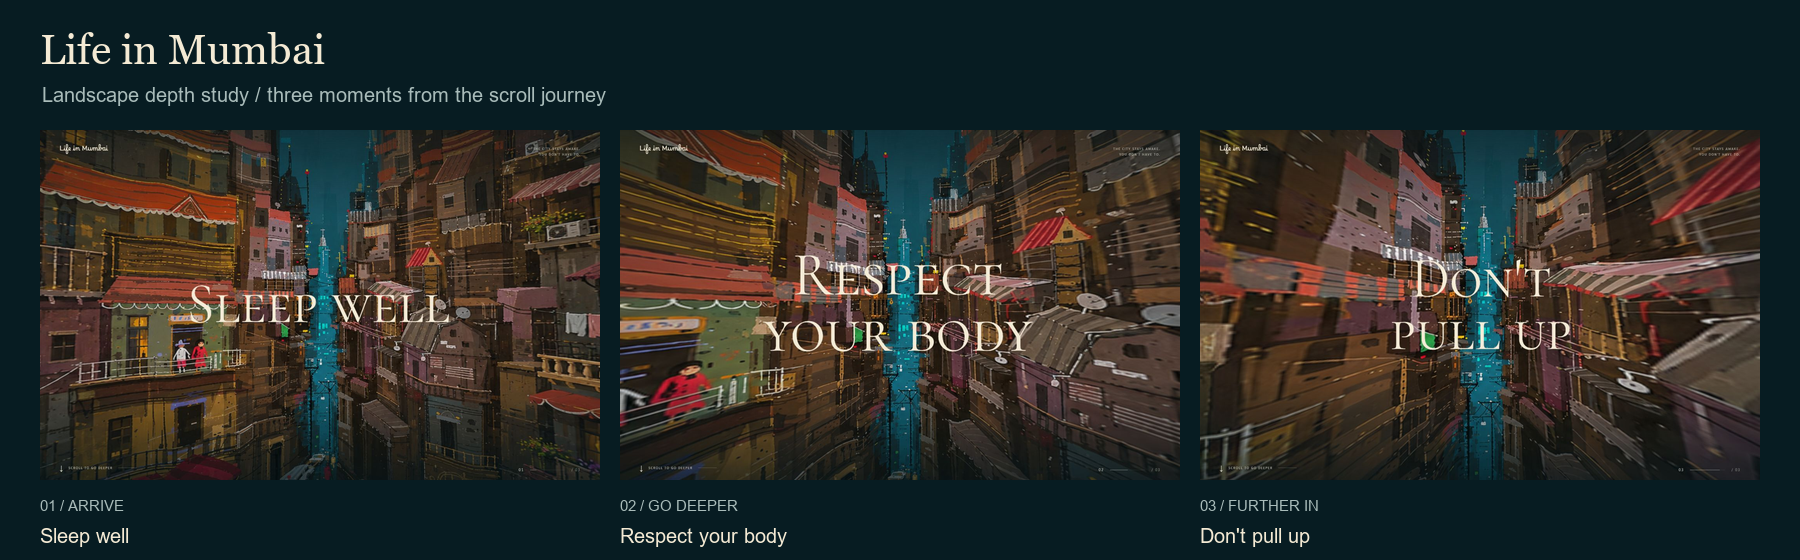
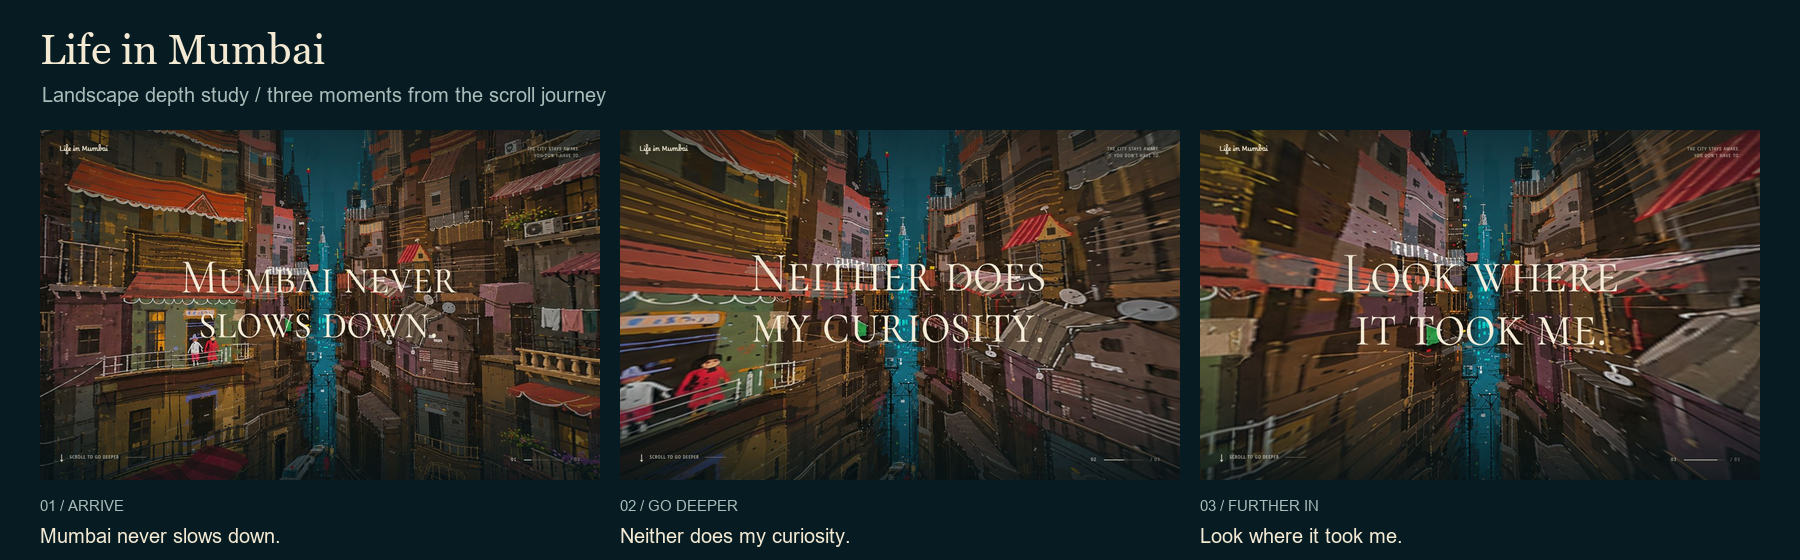
Update Mumbai journey messages and portfolio presentation

diff --git a/dist/mumbai-alley.html b/dist/mumbai-alley.html
@@ -26,10 +26,10 @@
   <img class="fallback" src="/assets/mumbai/teal-urban-canyon.png" width="1672" height="941" alt="A wide painted Mumbai alley, warm windows and balconies opening onto a deep teal night">
   <canvas id="alley-canvas" aria-hidden="true"></canvas><div class="veil" aria-hidden="true"></div>
   <div class="annotation">Life in Mumbai</div><div class="coordinates">The city stays awake.<br>You don't have to.</div>
-  <div class="fallback-copy" aria-hidden="true"><h2 id="fallback-phrase">Sleep well</h2></div>
+  <div class="fallback-copy" aria-hidden="true"><h2 id="fallback-phrase">Mumbai never slows down.</h2></div>
   <div class="journey-hint">SCROLL TO GO DEEPER</div>
   <div class="chapter" aria-hidden="true"><span id="phase-index">01</span><div class="chapter-track"><div class="chapter-fill"></div></div><span class="chapter-total">/ 03</span></div>
-  <div class="accessible-copy"><h1>Life in Mumbai</h1><p>Sleep well. Respect your body. Don't pull up.</p></div>
+  <div class="accessible-copy"><h1>Life in Mumbai</h1><p>Mumbai never slows down. Neither does my curiosity. Look where it took me.</p></div>
 </main>
 <script src="https://cdn.jsdelivr.net/npm/three@0.128.0/build/three.min.js"></script>
 <script>
@@ -38,11 +38,11 @@
   const EMBED=new URLSearchParams(location.search).has('embed'),REDUCED=matchMedia('(prefers-reduced-motion: reduce)').matches;
   // Named stills make the requested visual storyboard reproducible without
   // changing the embedded journey or depending on screenshot timing.
-  const stillProgress=EMBED?undefined:({sleep:.19,respect:.51,deeper:.85})[new URLSearchParams(location.search).get('still')];
+  const stillProgress=EMBED?undefined:({city:.19,curiosity:.51,journey:.85,sleep:.19,respect:.51,deeper:.85})[new URLSearchParams(location.search).get('still')];
   document.body.classList.toggle('embedded',EMBED||typeof stillProgress==='number');
   const stage=document.getElementById('alley-stage'),canvas=document.getElementById('alley-canvas');
   const fallbackPhrase=document.getElementById('fallback-phrase'),phaseIndex=document.getElementById('phase-index'),fill=document.querySelector('.chapter-fill');
-  const words=['Sleep well','Respect your body',"Don't pull up"],target={progress:0,x:0,y:0},motion={progress:0,x:0,y:0};
+  const words=['Mumbai never slows down.','Neither does my curiosity.','Look where it took me.'],target={progress:0,x:0,y:0},motion={progress:0,x:0,y:0};
   const ART_ASPECT=1672/941,FOV=48,TRAVEL=38,layers=[],phrases=[];
   let active=!EMBED,renderer,scene,camera,lastTime=0,lastRendered=0,phase=-1,dirty=true;
   const send=data=>{if(EMBED)parent.postMessage({mumbaiAlley:true,...data},location.origin);};
@@ -61,9 +61,9 @@
     return 9;
   }
   const beats=[
-    {text:'Sleep well',lines:['Sleep well'],depth:20,begin:.035,peak:.19,end:.32,width:.54},
-    {text:'Respect your body',lines:['Respect','your body'],depth:30,begin:.36,peak:.51,end:.66,width:.58},
-    {text:"Don't pull up",lines:["Don't",'pull up'],depth:49,begin:.70,peak:.85,end:1,width:.54}
+    {text:words[0],lines:['Mumbai never','slows down.'],depth:20,begin:.035,peak:.19,end:.32,width:.54},
+    {text:words[1],lines:['Neither does','my curiosity.'],depth:30,begin:.36,peak:.51,end:.66,width:.58},
+    {text:words[2],lines:['Look where','it took me.'],depth:49,begin:.70,peak:.85,end:1,width:.54}
   ];
   function setProgress(value){
     target.progress=clamp(value);dirty=true;
@@ -102,7 +102,7 @@
   }
   function fallback(){stage.classList.add('fallback-mode');stage.dataset.fallback='true';send({ready:true});}
   async function init(){
-    if(REDUCED){stage.classList.add('reduced');fallbackPhrase.innerHTML='Sleep well<br>Respect your body<br>Don’t pull up';stage.dataset.ready='reduced';send({ready:true});return;}
+    if(REDUCED){stage.classList.add('reduced');fallbackPhrase.innerHTML=words.join('<br><br>');stage.dataset.ready='reduced';send({ready:true});return;}
     try{
       if(typeof THREE==='undefined')throw new Error('Scene library unavailable');
       scene=new THREE.Scene();camera=new THREE.PerspectiveCamera(FOV,innerWidth/innerHeight,.1,300);

diff --git a/src/mumbai-alley.template.html b/src/mumbai-alley.template.html
@@ -26,10 +26,10 @@
   <img class="fallback" src="/assets/mumbai/teal-urban-canyon.png" width="1672" height="941" alt="A wide painted Mumbai alley, warm windows and balconies opening onto a deep teal night">
   <canvas id="alley-canvas" aria-hidden="true"></canvas><div class="veil" aria-hidden="true"></div>
   <div class="annotation">Life in Mumbai</div><div class="coordinates">The city stays awake.<br>You don't have to.</div>
-  <div class="fallback-copy" aria-hidden="true"><h2 id="fallback-phrase">Sleep well</h2></div>
+  <div class="fallback-copy" aria-hidden="true"><h2 id="fallback-phrase">Mumbai never slows down.</h2></div>
   <div class="journey-hint">SCROLL TO GO DEEPER</div>
   <div class="chapter" aria-hidden="true"><span id="phase-index">01</span><div class="chapter-track"><div class="chapter-fill"></div></div><span class="chapter-total">/ 03</span></div>
-  <div class="accessible-copy"><h1>Life in Mumbai</h1><p>Sleep well. Respect your body. Don't pull up.</p></div>
+  <div class="accessible-copy"><h1>Life in Mumbai</h1><p>Mumbai never slows down. Neither does my curiosity. Look where it took me.</p></div>
 </main>
 <script src="https://cdn.jsdelivr.net/npm/three@0.128.0/build/three.min.js"></script>
 <script>
@@ -38,11 +38,11 @@
   const EMBED=new URLSearchParams(location.search).has('embed'),REDUCED=matchMedia('(prefers-reduced-motion: reduce)').matches;
   // Named stills make the requested visual storyboard reproducible without
   // changing the embedded journey or depending on screenshot timing.
-  const stillProgress=EMBED?undefined:({sleep:.19,respect:.51,deeper:.85})[new URLSearchParams(location.search).get('still')];
+  const stillProgress=EMBED?undefined:({city:.19,curiosity:.51,journey:.85,sleep:.19,respect:.51,deeper:.85})[new URLSearchParams(location.search).get('still')];
   document.body.classList.toggle('embedded',EMBED||typeof stillProgress==='number');
   const stage=document.getElementById('alley-stage'),canvas=document.getElementById('alley-canvas');
   const fallbackPhrase=document.getElementById('fallback-phrase'),phaseIndex=document.getElementById('phase-index'),fill=document.querySelector('.chapter-fill');
-  const words=['Sleep well','Respect your body',"Don't pull up"],target={progress:0,x:0,y:0},motion={progress:0,x:0,y:0};
+  const words=['Mumbai never slows down.','Neither does my curiosity.','Look where it took me.'],target={progress:0,x:0,y:0},motion={progress:0,x:0,y:0};
   const ART_ASPECT=1672/941,FOV=48,TRAVEL=38,layers=[],phrases=[];
   let active=!EMBED,renderer,scene,camera,lastTime=0,lastRendered=0,phase=-1,dirty=true;
   const send=data=>{if(EMBED)parent.postMessage({mumbaiAlley:true,...data},location.origin);};
@@ -61,9 +61,9 @@
     return 9;
   }
   const beats=[
-    {text:'Sleep well',lines:['Sleep well'],depth:20,begin:.035,peak:.19,end:.32,width:.54},
-    {text:'Respect your body',lines:['Respect','your body'],depth:30,begin:.36,peak:.51,end:.66,width:.58},
-    {text:"Don't pull up",lines:["Don't",'pull up'],depth:49,begin:.70,peak:.85,end:1,width:.54}
+    {text:words[0],lines:['Mumbai never','slows down.'],depth:20,begin:.035,peak:.19,end:.32,width:.54},
+    {text:words[1],lines:['Neither does','my curiosity.'],depth:30,begin:.36,peak:.51,end:.66,width:.58},
+    {text:words[2],lines:['Look where','it took me.'],depth:49,begin:.70,peak:.85,end:1,width:.54}
   ];
   function setProgress(value){
     target.progress=clamp(value);dirty=true;
@@ -102,7 +102,7 @@
   }
   function fallback(){stage.classList.add('fallback-mode');stage.dataset.fallback='true';send({ready:true});}
   async function init(){
-    if(REDUCED){stage.classList.add('reduced');fallbackPhrase.innerHTML='Sleep well<br>Respect your body<br>Don’t pull up';stage.dataset.ready='reduced';send({ready:true});return;}
+    if(REDUCED){stage.classList.add('reduced');fallbackPhrase.innerHTML=words.join('<br><br>');stage.dataset.ready='reduced';send({ready:true});return;}
     try{
       if(typeof THREE==='undefined')throw new Error('Scene library unavailable');
       scene=new THREE.Scene();camera=new THREE.PerspectiveCamera(FOV,innerWidth/innerHeight,.1,300);

diff --git a/review/render_storyboard.py b/review/render_storyboard.py
@@ -10,9 +10,9 @@ small = ImageFont.truetype('C:/Windows/Fonts/arial.ttf', 15)
 draw.text((40, 25), 'Life in Mumbai', font=title, fill='#f4ead4')
 draw.text((42, 83), 'Landscape depth study / three moments from the scroll journey', font=body, fill='#a9bcba')
 frames = [
-    ('mumbai-sleep-well.jpg', '01 / ARRIVE', 'Sleep well'),
-    ('mumbai-respect-your-body.jpg', '02 / GO DEEPER', 'Respect your body'),
-    ('mumbai-dont-pull-up.jpg', '03 / FURTHER IN', "Don't pull up"),
+    ('mumbai-city.jpg', '01 / ARRIVE', 'Mumbai never slows down.'),
+    ('mumbai-curiosity.jpg', '02 / GO DEEPER', 'Neither does my curiosity.'),
+    ('mumbai-journey.jpg', '03 / FURTHER IN', 'Look where it took me.'),
 ]
 for i, (name, label, phrase) in enumerate(frames):
     x = 40 + i * 580

diff --git a/README.md b/README.md
@@ -67,7 +67,7 @@ The original lower-section runtime is included as its published JavaScript bundl
 
 The Mumbai section uses the supplied landscape artwork, `Teal-Hazed Urban Canyon at Night.png`. Its original 1672×941 pixels are copied byte-for-byte into `src/media/teal-urban-canyon.png` and `dist/assets/mumbai/teal-urban-canyon.png`. The earlier portrait artwork is retained in the source folder.
 
-`src/mumbai-alley.template.html` maps six smoothly joined depth bands onto a continuous perspective surface. Inverse projection preserves the exact artwork at entry, with no repeated images or cutout seams. The foreground passes the camera faster than the distant teal lane during a 680-viewport-height scroll journey. “Sleep well,” “Respect your body,” and “Don't pull up” occupy three separate depths, fade in and out, and can be occluded by closer buildings. The scene also supports restrained pointer parallax, touch and keyboard scrolling. `src/build_alley.py` integrates it into the full page on `npm run build`.
+`src/mumbai-alley.template.html` maps six smoothly joined depth bands onto a continuous perspective surface. Inverse projection preserves the exact artwork at entry, with no repeated images or cutout seams. The foreground passes the camera faster than the distant teal lane during a 680-viewport-height scroll journey. “Mumbai never slows down.”, “Neither does my curiosity.”, and “Look where it took me.” occupy three separate depths, fade in and out, and can be occluded by closer buildings. The scene also supports restrained pointer parallax, touch and keyboard scrolling. `src/build_alley.py` integrates it into the full page on `npm run build`.
 
 Reduced-motion settings show the still landscape with all three phrases and a shorter section. A still-image fallback remains available if WebGL or the scene library cannot load. The standalone `/mumbai-alley.html` preview offers the same scroll journey. Browser captures and the visual storyboard are saved under `review/`.
 

diff --git a/review/README.md b/review/README.md
@@ -4,8 +4,8 @@ The images are actual browser captures of the implemented landscape scene at 144
 
 Reproducible still views:
 
-- `/mumbai-alley.html?still=sleep`
-- `/mumbai-alley.html?still=respect`
-- `/mumbai-alley.html?still=deeper`
+- `/mumbai-alley.html?still=city` — Mumbai never slows down.
+- `/mumbai-alley.html?still=curiosity` — Neither does my curiosity.
+- `/mumbai-alley.html?still=journey` — Look where it took me.
 
 Open `/mumbai-alley.html` for the scrolling version, or find the section in the full website. Still views use the same geometry, camera travel, text materials and lighting as the scroll journey.
